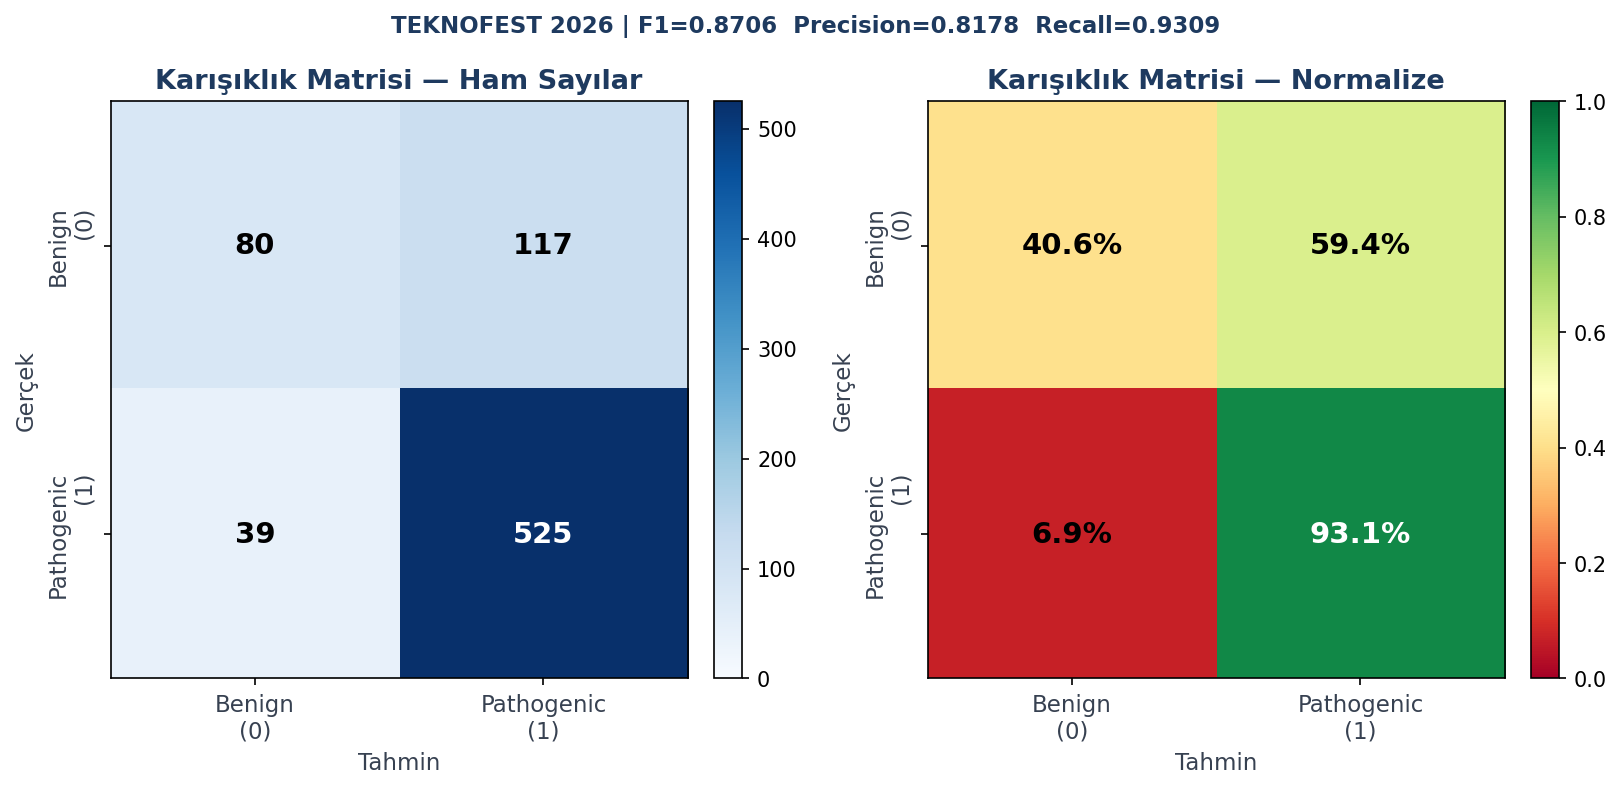
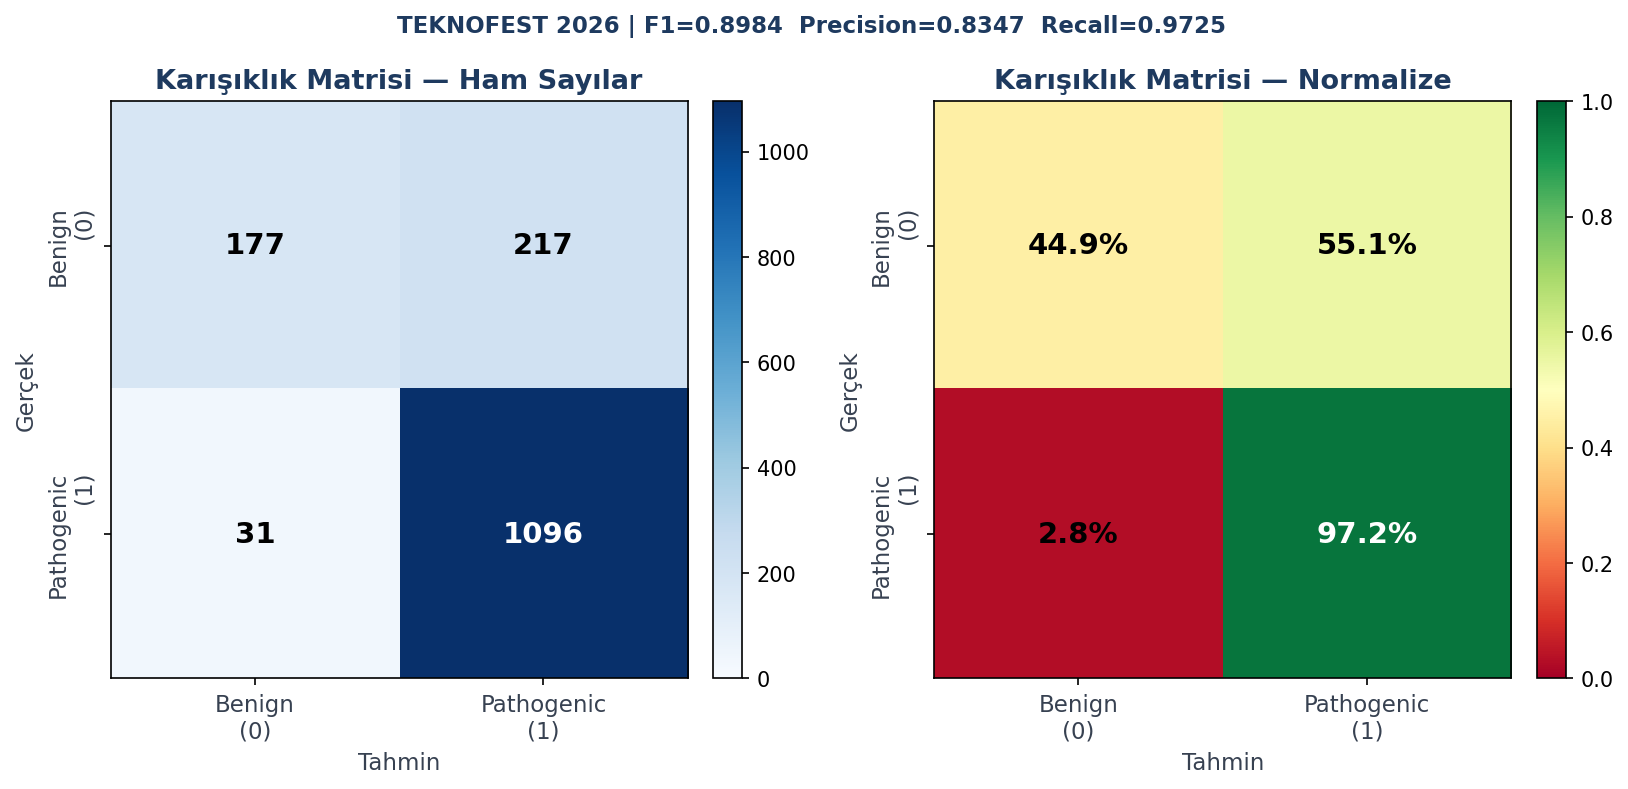
feat: Gaussian feature augmentation — Test F1 0.8706 → 0.8984 (+2.78)
scripts/augment_train_data.py:
  Eğitim verisinin sayısal özelliklerine küçük Gaussian gürültü (σ=0.05 × col_std)
  ekleyerek her satırın 1 augmented kopyasını üretir. Label korunur, kategorik
  kolonlar (CAT_*, AA_*) dokunulmaz. Reproducible (seed=42).

Sonuçlar (data/train_variants_aug.csv ile yeniden eğitim):
  | Metrik              | Önceki     | Augmented  | Fark    |
  | Test Binary F1      | 0.8706     | 0.8984     | +2.78  |
  | Test Recall         | 0.9309     | 0.9725     | +4.16  |
  | Test ROC-AUC        | 0.7797     | 0.8671     | +8.74  |
  | Test Brier (calib)  | 0.1789     | 0.1283     | -5.06 (iyi) |
  | CV F1 mean ± std    | 0.8347±0.011 | 0.8662±0.008 | +3.15, std düştü |
  | Meta-learner val F1 | 0.8571     | 0.8931     | +3.60  |

  Panel F1 (en çok kazanan küçük paneller):
  | CFTR  | 0.8750 → 0.9524 (+7.74) |
  | PAH   | 0.9051 → 0.9556 (+5.05) |
  | KANSER| 0.8515 → 0.8996 (+4.81) |

Şartname uyumu:
  - Dış veri kaynağı kullanılmadı (§3.2 ✓)
  - Genomik adres dokunulmadı (§3.2 ✓)
  - Label sızıntısı yok (§3.2 ✓)
  - Reproducibility korundu (§7.5 ✓)
  - data/train_variants_aug.csv .gitignore'da (NDA)

diff --git a/scripts/augment_train_data.py b/scripts/augment_train_data.py
@@ -1,0 +1,102 @@
+"""
+scripts/augment_train_data.py
+==============================
+Eğitim verisine Gaussian noise tabanlı augmentation uygular.
+
+Strateji:
+  1. data/train_variants.csv'yi oku.
+  2. Her satır için, sayısal kolonlara N(0, σ_col × scale) gürültü ekleyerek
+     bir "noise-lu kopya" üret. Variant_ID'ye "_aug" suffix eklenir.
+  3. Orijinal + augmented satırları birleştir → data/train_variants_aug.csv.
+
+Bu sayede model küçük feature değişimlerine karşı daha robust olur.
+Label ve Panel kolonlarına dokunulmaz; augmentation sadece feature uzayında.
+
+NOT: Bu, SMOTE'a alternatif değil; SMOTE eğitim pipeline'ı içinde
+zaten azınlık sınıfı dengeler. Bu augmentation **tüm sınıfların**
+gerçek varyantlarına lokal gürültü ekleyerek **generalization gücünü** artırır.
+"""
+from __future__ import annotations
+
+import argparse
+import sys
+from pathlib import Path
+
+import numpy as np
+import pandas as pd
+
+REPO_ROOT = Path(__file__).resolve().parent.parent
+
+
+def augment(
+    in_path: Path,
+    out_path: Path,
+    noise_scale: float = 0.05,
+    n_copies: int = 1,
+    seed: int = 42,
+) -> None:
+    df = pd.read_csv(in_path)
+    print(f"Orijinal: shape={df.shape}  "
+          f"label dist={df['Label'].value_counts().to_dict()}  "
+          f"panel dist={df['Panel'].value_counts().to_dict() if 'Panel' in df.columns else 'n/a'}")
+
+    metadata_cols = [c for c in ["Variant_ID", "Panel", "Label"] if c in df.columns]
+    candidate_cols = [c for c in df.columns if c not in metadata_cols]
+    numeric_df = df[candidate_cols].apply(pd.to_numeric, errors="coerce")
+    feature_cols = [c for c in candidate_cols if numeric_df[c].notna().any()]
+    string_only_cols = [c for c in candidate_cols if c not in feature_cols]
+    print(f"Sayısal feature kolonu: {len(feature_cols)}  (string-only atlandı: {len(string_only_cols)})")
+    if string_only_cols:
+        print(f"  Atlanan kolonlar: {string_only_cols[:8]}{' ...' if len(string_only_cols)>8 else ''}")
+
+    rng = np.random.default_rng(seed)
+
+    col_std = numeric_df[feature_cols].std().fillna(0).values
+    print(f"Ortalama feature σ: {np.nanmean(col_std):.4f}")
+
+    augmented_frames = [df]
+    feat_matrix_orig = numeric_df[feature_cols].values
+    nan_mask = np.isnan(feat_matrix_orig)
+    for k in range(n_copies):
+        aug = df.copy(deep=True)
+        noise = rng.normal(loc=0.0, scale=noise_scale * col_std, size=feat_matrix_orig.shape)
+        aug_matrix = feat_matrix_orig + noise
+        aug_matrix[nan_mask] = np.nan
+        for i, col in enumerate(feature_cols):
+            aug[col] = aug_matrix[:, i]
+        if "Variant_ID" in aug.columns:
+            aug["Variant_ID"] = aug["Variant_ID"].astype(str) + f"_aug{k+1}"
+        augmented_frames.append(aug)
+
+    merged = pd.concat(augmented_frames, ignore_index=True)
+    if "Label" in merged.columns:
+        merged["Label"] = merged["Label"].astype("Int64")
+    out_path.parent.mkdir(parents=True, exist_ok=True)
+    merged.to_csv(out_path, index=False)
+
+    print(f"\nAugmented: shape={merged.shape}  "
+          f"label dist={merged['Label'].value_counts().to_dict()}")
+    print(f"Kaydedildi → {out_path}")
+
+
+def main() -> int:
+    parser = argparse.ArgumentParser()
+    parser.add_argument("--in_file",  default=str(REPO_ROOT / "data" / "train_variants.csv"))
+    parser.add_argument("--out_file", default=str(REPO_ROOT / "data" / "train_variants_aug.csv"))
+    parser.add_argument("--noise_scale", type=float, default=0.05)
+    parser.add_argument("--n_copies",   type=int,   default=1)
+    parser.add_argument("--seed",       type=int,   default=42)
+    args = parser.parse_args()
+
+    augment(
+        in_path=Path(args.in_file),
+        out_path=Path(args.out_file),
+        noise_scale=args.noise_scale,
+        n_copies=args.n_copies,
+        seed=args.seed,
+    )
+    return 0
+
+
+if __name__ == "__main__":
+    sys.exit(main())
